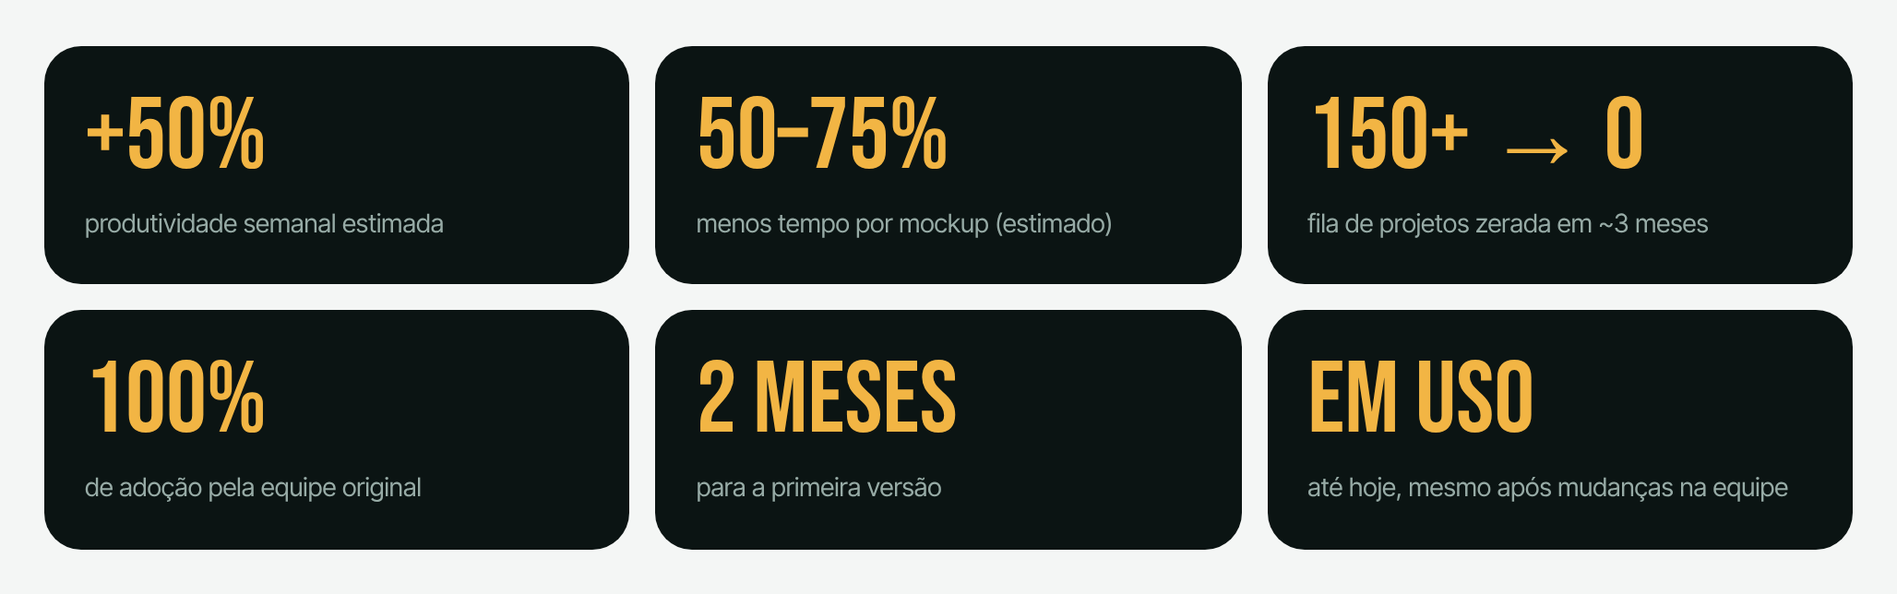
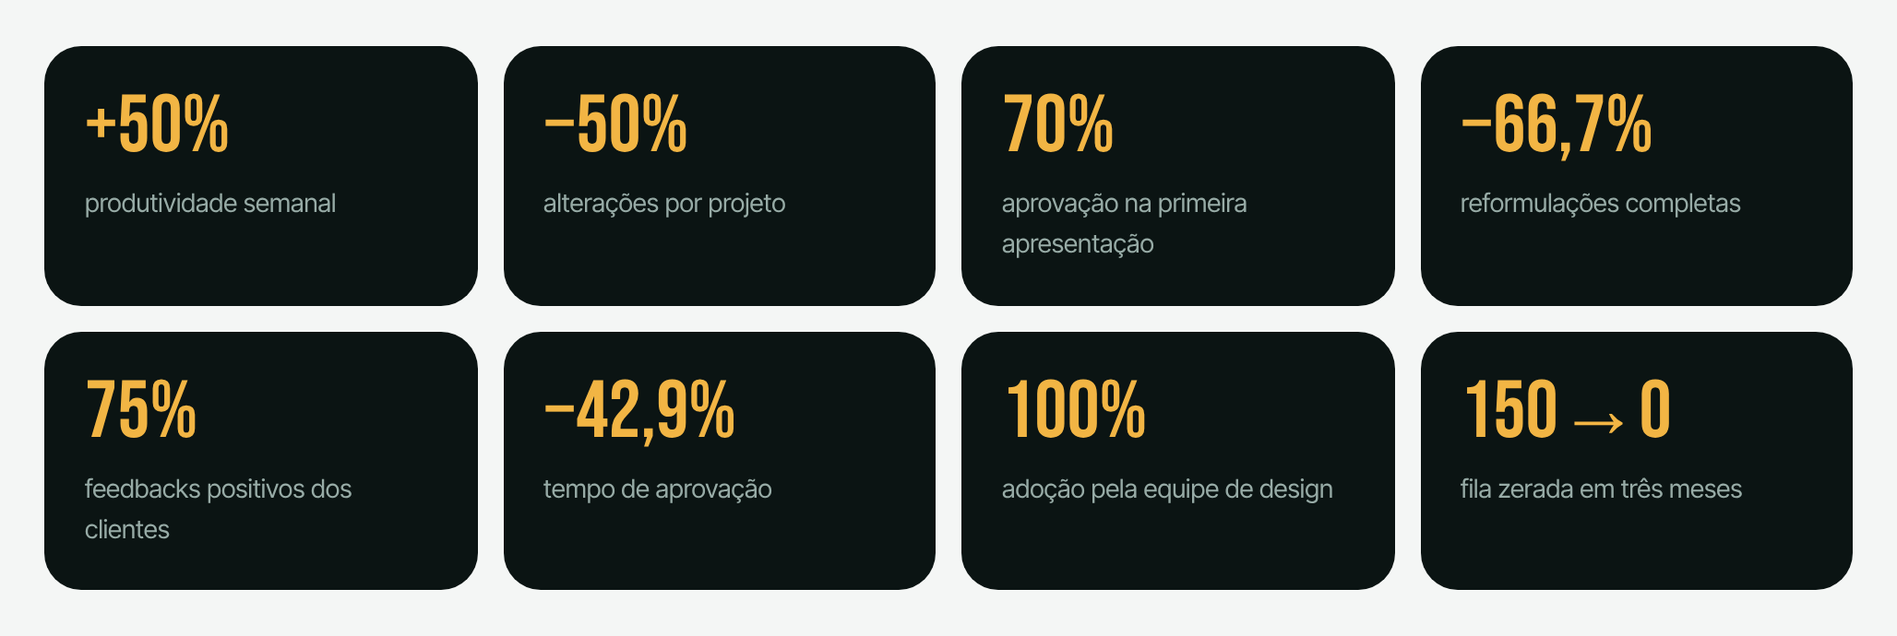
Add files via upload

diff --git a/medium/design-em-escala.html b/medium/design-em-escala.html
@@ -32,10 +32,10 @@ a{color:var(--accent)}
 <figure><img src="https://www.samilleleao.net/img/medium/01-capa.png" alt="Mesma estrutura, identidades diferentes."><figcaption>Mesma estrutura, identidades diferentes.</figcaption></figure>
 <h2>Visão geral</h2>
 <p>Como acelerar a produção de sites institucionais sem comprometer a identidade visual e as particularidades de cada cliente?</p>
-<p>Esse foi o desafio que recebi em um cenário empresarial marcado pela alta demanda de projetos, prazos reduzidos e uma fila de mais de 150 sites pendentes.</p>
+<p>Esse foi o desafio que recebi em um cenário empresarial marcado pela alta demanda de projetos, prazos reduzidos e uma fila de 150 sites pendentes.</p>
 <p>A partir da investigação do processo de trabalho, da identificação das dificuldades enfrentadas pelos profissionais e da análise de estruturas recorrentes nos projetos, desenvolvi uma biblioteca modular de layouts inspirada nos princípios de Design System.</p>
 <p>A solução permitiu que os designers reutilizassem estruturas, combinassem diferentes possibilidades de composição e direcionassem mais tempo para decisões criativas e estratégicas.</p>
-<p>Adotado por toda a equipe, o sistema contribuiu para a aceleração da produção, a eliminação da fila de pendências e a evolução visual dos projetos.</p>
+<p>Adotado por toda a equipe, o sistema contribuiu para um aumento de 50% na produtividade semanal, uma redução de 50% nas solicitações de alterações e uma evolução na taxa de aprovação inicial de 40% para 70%, além de zerar a fila de pendências em três meses.</p>
 <h3>Informações do projeto</h3>
 <ul>
 <li><strong><strong>Tipo de projeto</strong></strong> → Solução interna empresarial</li>
@@ -49,16 +49,18 @@ a{color:var(--accent)}
 <li><strong><strong>Status</strong></strong> → Implementado e em utilização</li>
 </ul>
 <h3>Principais resultados</h3>
-<figure><img src="https://www.samilleleao.net/img/medium/02-resultados.png" alt="Indicadores operacionais estimados a partir da experiência profissional."><figcaption>Indicadores operacionais estimados a partir da experiência profissional.</figcaption></figure>
+<figure><img src="https://www.samilleleao.net/img/medium/02-resultados.png" alt="Principais indicadores do sistema modular."><figcaption>Principais indicadores do sistema modular.</figcaption></figure>
 <ul>
-<li><strong>+50%</strong> de aumento estimado na produtividade semanal por designer.</li>
-<li><strong>50% a 75%</strong> de redução estimada no tempo de criação dos mockups.</li>
-<li><strong>100%</strong> de adoção pela equipe original de design.</li>
-<li><strong>150+ projetos pendentes</strong> eliminados da fila em três meses.</li>
-<li>Maior diversidade visual observada nos projetos posteriores.</li>
-<li>Continuidade da utilização da solução.</li>
+<li><strong>+50%</strong> de produtividade semanal por designer.</li>
+<li><strong>−50%</strong> de alterações por projeto.</li>
+<li><strong>70%</strong> de aprovação na primeira apresentação (antes, 40%).</li>
+<li><strong>−66,7%</strong> de reformulações completas.</li>
+<li><strong>75%</strong> de feedbacks positivos dos clientes (antes, 45%).</li>
+<li><strong>−42,9%</strong> no tempo de aprovação.</li>
+<li><strong>100%</strong> de adoção pela equipe de design.</li>
+<li><strong>150 → 0</strong> projetos pendentes em três meses.</li>
 </ul>
-<p><em>Os indicadores operacionais são estimativas baseadas na experiência profissional, uma vez que não estão disponíveis registros históricos detalhados de produção.</em></p>
+<p><em>Comparação entre três meses antes e três meses depois da implementação, com 60 projetos em cada período (120 no total).</em></p>
 <figure><img src="https://www.samilleleao.net/img/medium/02b-jornada.png" alt="A jornada do projeto, do desafio à evolução."><figcaption>A jornada do projeto, do desafio à evolução.</figcaption></figure>
 <hr>
 <h2>Contexto do negócio</h2>
@@ -290,39 +292,60 @@ a{color:var(--accent)}
 <p><em>A auditoria visual é qualitativa. Os projetos têm briefings diferentes e não constituem uma comparação controlada de usabilidade ou desempenho.</em></p>
 <hr>
 <h2>Resultados e impacto</h2>
-<figure><img src="https://www.samilleleao.net/img/medium/12-graficos.png" alt="Produtividade e tempo por mockup (estimativas)."><figcaption>Produtividade e tempo por mockup (estimativas).</figcaption></figure>
-<p>O tempo de criação de um mockup, estimado em cerca de dois dias, passou para meio dia a um dia, conforme a complexidade: uma redução estimada entre 50% e 75%. O volume semanal por designer passou de cerca de cinco para uma média de sete a oito mockups.</p>
+<p>A implementação do sistema modular promoveu melhorias que ultrapassaram a produtividade da equipe de design, alcançando também o processo de revisão, a aprovação e a percepção dos clientes.</p>
+<p>Para avaliar o impacto, foram considerados dois períodos equivalentes: três meses antes e três meses depois da implementação, com uma amostra de 60 projetos em cada período, totalizando 120 projetos.</p>
+<figure><img src="https://www.samilleleao.net/img/medium/12-indicadores.png" alt="Indicadores antes e depois do sistema modular."><figcaption>Indicadores antes e depois do sistema modular.</figcaption></figure>
 <ul>
-<li><strong>Entregas semanais por designer</strong> (antes: 5; depois: 7,5)</li>
-<li><strong>Capacidade semanal da equipe</strong> (antes: 20; depois: 30)</li>
-<li><strong>Capacidade mensal projetada</strong> (antes: 80; depois: 120)</li>
+<li><strong>Aprovação na primeira apresentação</strong> (antes: 40%; depois: 70%; resultado: +30 p.p.)</li>
+<li><strong>Média de alterações por projeto</strong> (antes: 4,2; depois: 2,1; resultado: −50%)</li>
+<li><strong>Reformulações completas</strong> (antes: 15%; depois: 5%; resultado: −66,7%)</li>
+<li><strong>Tempo médio de aprovação</strong> (antes: 7 dias; depois: 4 dias; resultado: −42,9%)</li>
+<li><strong>Aprovação sem grandes alterações</strong> (antes: 30%; depois: 65%; resultado: +35 p.p.)</li>
+<li><strong>Feedbacks positivos</strong> (antes: 45%; depois: 75%; resultado: +30 p.p.)</li>
+<li><strong>Feedbacks negativos</strong> (antes: 35%; depois: 15%; resultado: −20 p.p.)</li>
+<li><strong>Projetos pendentes</strong> (antes: 150; depois: 0; resultado: −100%)</li>
+<li><strong>Tempo de criação</strong> (antes: 2 dias; depois: 0,5–1 dia; resultado: −50% a −75%)</li>
 </ul>
-<p><em>As projeções consideram quatro designers e meses de quatro semanas e não representam registros efetivos de todas as entregas.</em></p>
-<figure><img src="https://www.samilleleao.net/img/medium/13-fila.png" alt="Da fila de 150+ projetos a zero, em cerca de três meses."><figcaption>Da fila de 150+ projetos a zero, em cerca de três meses.</figcaption></figure>
-<p>Em cerca de três meses, zeramos a fila de mais de 150 projetos, mesmo com novas demandas chegando. Não houve outras mudanças operacionais relevantes identificadas por mim no período. Embora não seja possível isolar estatisticamente a contribuição da biblioteca, a experiência operacional indica que ela contribuiu significativamente.</p>
-<p>Mesmo após mudanças na equipe, o sistema permaneceu relevante. Continuo usando a biblioteca como apoio à produção dos mockups.</p>
+<h3>Eficiência operacional e redução do retrabalho</h3>
+<p>A reutilização de estruturas reduziu em 50% a média de alterações por projeto, de 4,2 para 2,1 solicitações.</p>
+<p>As reformulações completas caíram 66,7%, indicando maior alinhamento das propostas visuais às expectativas dos clientes.</p>
+<p>O tempo de criação dos mockups passou de dois dias para cerca de meio dia a um dia, contribuindo para um aumento de 50% na produtividade semanal por designer.</p>
+<h3>Melhoria no processo de aprovação</h3>
+<figure><img src="https://www.samilleleao.net/img/medium/13-comparativo.png" alt="Comparativo de resultados, antes e depois."><figcaption>Comparativo de resultados, antes e depois.</figcaption></figure>
+<p>A aprovação na primeira apresentação passou de 40% para 70%, um crescimento de 30 pontos percentuais.</p>
+<p>Os mockups aprovados sem grandes alterações subiram de 30% para 65%, e o tempo médio entre apresentação e aprovação caiu de sete para quatro dias, uma redução de 42,9%.</p>
+<h3>Percepção dos clientes</h3>
+<p>Os feedbacks positivos sobre os projetos subiram de 45% para 75%, e os feedbacks negativos sobre os layouts caíram de 35% para 15%.</p>
+<p>Esses indicadores apontam para uma evolução na percepção dos clientes, especialmente em organização das informações, apresentação visual e personalização. Como não houve uma pesquisa específica de satisfação (CSAT), os feedbacks e as taxas de aprovação funcionam como indicadores indiretos da experiência dos clientes.</p>
+<h3>Impacto no negócio</h3>
+<figure><img src="https://www.samilleleao.net/img/medium/14-fila.png" alt="Da fila de 150 projetos a zero, em cerca de três meses."><figcaption>Da fila de 150 projetos a zero, em cerca de três meses.</figcaption></figure>
+<p>Com mais capacidade produtiva e menos esforço operacional, a equipe zerou uma fila de 150 projetos em cerca de três meses, mesmo com novas demandas chegando. Os quatro designers adotaram a biblioteca e passaram a enriquecê-la de forma colaborativa.</p>
+<p>Os resultados apontam para uma contribuição relevante do sistema modular na eficiência operacional, na redução do retrabalho e na experiência de aprovação dos projetos.</p>
 <h3>Avaliação das hipóteses</h3>
 <ul>
-<li><strong>A reutilização reduziria o tempo de criação</strong> (evidência: De dois dias para meio dia a um dia; avaliação: Sustentada por relato)</li>
-<li><strong>A modularidade aumentaria a produtividade</strong> (evidência: Crescimento semanal estimado de 50%; avaliação: Sustentada por relato)</li>
-<li><strong>A personalização seria preservada</strong> (evidência: Comparação de 12 mockups; avaliação: Sustentada qualitativamente)</li>
-<li><strong>A equipe adotaria a solução</strong> (evidência: Uso pelos quatro designers; avaliação: Confirmada por relato)</li>
-<li><strong>A biblioteca evoluiria coletivamente</strong> (evidência: Liberdade de contribuição; avaliação: Confirmada por relato)</li>
-<li><strong>A solução permaneceria relevante</strong> (evidência: Uso contínuo; avaliação: Confirmada por relato)</li>
-<li><strong>O retrabalho seria reduzido</strong> (evidência: Sem indicadores específicos; avaliação: Não mensurada)</li>
-<li><strong>A satisfação dos clientes aumentaria</strong> (evidência: Sem pesquisa de satisfação; avaliação: Não mensurada)</li>
+<li><strong>Reutilizar reduz o tempo</strong> (evidência: De 2 dias para 0,5–1 dia; avaliação: Sustentada por relato)</li>
+<li><strong>Modularidade aumenta a produtividade</strong> (evidência: +50% semanal; avaliação: Sustentada por relato)</li>
+<li><strong>A personalização é preservada</strong> (evidência: Comparação de 12 mockups; avaliação: Sustentada qualitativamente)</li>
+<li><strong>A equipe adota a solução</strong> (evidência: 4 de 4 designers; avaliação: Confirmada por relato)</li>
+<li><strong>Evolui coletivamente e continua relevante</strong> (evidência: Contribuições e uso contínuo; avaliação: Confirmada por relato)</li>
+<li><strong>Reduz o retrabalho</strong> (evidência: −50% nas alterações por projeto; avaliação: Sustentada por indicadores)</li>
+<li><strong>Reduz reformulações completas</strong> (evidência: −66,7% nas solicitações; avaliação: Sustentada por indicadores)</li>
+<li><strong>Facilita a aprovação</strong> (evidência: De 40% para 70% na primeira apresentação; avaliação: Sustentada por indicadores)</li>
+<li><strong>Melhora a percepção dos clientes</strong> (evidência: De 45% para 75% de feedbacks positivos; avaliação: Sustentada por indicadores indiretos)</li>
 </ul>
 <hr>
 <h2>Valor gerado</h2>
-<figure><img src="https://www.samilleleao.net/img/medium/14-valor.png" alt="Valor para a empresa, para os designers e para os clientes."><figcaption>Valor para a empresa, para os designers e para os clientes.</figcaption></figure>
-<p><em>Os benefícios para os clientes são consequências esperadas da melhoria operacional, não resultados medidos por pesquisas de satisfação.</em></p>
+<figure><img src="https://www.samilleleao.net/img/medium/15-valor.png" alt="Valor para a empresa, para os designers e para os clientes."><figcaption>Valor para a empresa, para os designers e para os clientes.</figcaption></figure>
+<p><strong>Para a empresa:</strong> mais capacidade produtiva, fila de pendências zerada, menos retrabalho, aprovações mais rápidas e melhor aproveitamento da equipe.</p>
+<p><strong>Para os designers:</strong> 50% menos alterações por projeto, menos trabalho repetitivo, repertório compartilhado, autonomia criativa e mais tempo para direção de arte.</p>
+<p><strong>Para os clientes:</strong> propostas mais rápidas, mais personalização visual, menos rodadas de ajustes, aprovação mais ágil e melhor percepção dos layouts.</p>
 <hr>
 <h2>Limitações da avaliação</h2>
 <ul>
-<li>Não havia ferramenta que registrasse tempos de criação e entregas individuais, então os indicadores são estimativas.</li>
+<li>Não houve uma pesquisa específica de satisfação (CSAT). Feedbacks e taxas de aprovação são indicadores indiretos.</li>
 <li>Não foi possível fazer uma nova avaliação com os outros três designers, que não integram mais a equipe.</li>
-<li>A comparação dos mockups não comprova ganhos de usabilidade, acessibilidade ou conversão.</li>
-<li>Os dados não permitem estabelecer uma relação causal isolada entre o sistema e a eliminação da fila.</li>
+<li>A comparação visual dos mockups não comprova ganhos de usabilidade, acessibilidade ou conversão.</li>
+<li>Os dados não permitem isolar estatisticamente a contribuição do sistema em relação a outros fatores do período.</li>
 </ul>
 <hr>
 <h2>Desafios e aprendizados</h2>
@@ -343,14 +366,9 @@ a{color:var(--accent)}
 <li><strong>Inteligência artificial:</strong> automatizar a análise de briefings, a organização de referências e a geração de possibilidades estruturais, sem substituir o julgamento e a criatividade do designer.</li>
 </ul>
 <hr>
-<h2>A evolução para o Modu Studio</h2>
-<p>Os aprendizados do sistema modular contribuíram para um novo projeto autoral: o <strong>Modu Studio</strong>.</p>
-<p>Enquanto a biblioteca original organizava estruturas manualmente no Figma, o Modu Studio explora a inteligência artificial como apoio à criação de layouts institucionais: centralizar informações dos clientes, organizar referências, auxiliar na interpretação dos briefings, gerar alternativas de wireframe e apoiar a coerência entre as páginas, preservando a autonomia criativa dos designers.</p>
-<p>O propósito permanece o mesmo: reduzir o esforço com atividades repetitivas para que os designers se concentrem nas decisões de maior valor.</p>
-<hr>
 <h2>Conclusão</h2>
 <p>O sistema modular mostrou que o design pode gerar valor não apenas pelas interfaces entregues, mas também pela transformação dos processos usados para construí-las.</p>
-<p>O que começou como o pedido de um mockup base virou uma biblioteca modular e colaborativa, adotada por toda a equipe e incorporada à rotina de produção. A solução contribuiu para um aumento estimado de 50% na produtividade semanal, uma redução estimada no tempo de criação e a eliminação de uma fila de mais de 150 projetos em três meses.</p>
+<p>O que começou como o pedido de um mockup base virou uma biblioteca modular e colaborativa, adotada por toda a equipe e incorporada à rotina de produção. A solução contribuiu para um aumento de 50% na produtividade semanal, uma redução de 50% nas alterações por projeto, uma evolução na aprovação inicial de 40% para 70% e a eliminação de uma fila de 150 projetos em três meses.</p>
 <p>Essa experiência ampliou minha compreensão sobre o papel do UX/UI Designer na identificação de problemas, na construção de soluções escaláveis e na geração de valor para o negócio.</p>
 <p><strong>Padronizar a estrutura não significa padronizar a criatividade. Significa criar espaço para que ela aconteça.</strong></p>
 <hr>

diff --git a/cases/design-em-escala.html b/cases/design-em-escala.html
@@ -4,7 +4,7 @@
 <meta charset="utf-8">
 <meta name="viewport" content="width=device-width, initial-scale=1, viewport-fit=cover">
 <title>Design em escala — Samille Leão</title>
-<meta name="description" content="Como um sistema modular no Figma transformou a produção de sites institucionais: +50% de produtividade estimada e uma fila de 150+ projetos zerada em três meses.">
+<meta name="description" content="Biblioteca modular no Figma que aumentou a produtividade em 50%, reduziu as alterações por projeto em 50% e elevou a aprovação na primeira apresentação de 40% para 70%.">
 <link rel="preconnect" href="https://fonts.googleapis.com">
 <link rel="preconnect" href="https://fonts.gstatic.com" crossorigin>
 <link rel="stylesheet" href="https://fonts.googleapis.com/css2?family=Bebas+Neue&family=Inter+Tight:wght@400;500;600;700&family=JetBrains+Mono:wght@400;500&display=swap">
@@ -73,15 +73,17 @@
         </header>
         <div class="callout reveal"><small>Pergunta central</small>Como acelerar a produção de sites institucionais sem comprometer a identidade visual e as particularidades de cada cliente?</div>
         <p class="intro reveal">No <strong>Grupo Ideal Trends</strong>, uma equipe de <strong>4 designers</strong> enfrentava prazos curtos e uma fila com <strong>mais de 150 sites pendentes</strong>. Investiguei o processo, ouvi quem participava dele e identifiquei estruturas que se repetiam. O resultado foi uma <strong>biblioteca modular de layouts no Figma</strong>, inspirada em Design Systems.</p>
-        <div class="kpis" id="g-resultados">
-          <div class="kpi reveal"><strong>+50%</strong><span>produtividade semanal estimada</span></div>
-          <div class="kpi reveal"><strong>50–75%</strong><span>menos tempo por mockup (estimado)</span></div>
-          <div class="kpi reveal"><strong>150+ → 0</strong><span>fila de projetos zerada em ~3 meses</span></div>
-          <div class="kpi reveal"><strong>100%</strong><span>de adoção pela equipe original</span></div>
-          <div class="kpi reveal"><strong>2 meses</strong><span>para a primeira versão</span></div>
-          <div class="kpi reveal"><strong>Em uso</strong><span>até hoje, mesmo após mudanças na equipe</span></div>
+        <div class="kpis k8" id="g-resultados">
+          <div class="kpi reveal"><strong>+50%</strong><span>produtividade semanal</span></div>
+          <div class="kpi reveal"><strong>−50%</strong><span>alterações por projeto</span></div>
+          <div class="kpi reveal"><strong>70%</strong><span>aprovação na primeira apresentação</span></div>
+          <div class="kpi reveal"><strong>−66,7%</strong><span>reformulações completas</span></div>
+          <div class="kpi reveal"><strong>75%</strong><span>feedbacks positivos dos clientes</span></div>
+          <div class="kpi reveal"><strong>−42,9%</strong><span>tempo de aprovação</span></div>
+          <div class="kpi reveal"><strong>100%</strong><span>adoção pela equipe de design</span></div>
+          <div class="kpi reveal"><strong>150→0</strong><span>fila zerada em três meses</span></div>
         </div>
-        <p class="note reveal">Indicadores operacionais estimados a partir da experiência profissional. Não há registros históricos detalhados da produção.</p>
+        <p class="note reveal">Comparação entre três meses antes e três meses depois da implementação, com 60 projetos em cada período (120 no total).</p>
         <p class="label reveal">A jornada do projeto</p>
         <ol class="devj reveal" id="g-jornada">
           <li><b>Contexto e desafio</b><span>Alta demanda e pedido da gestora</span></li>
@@ -278,55 +280,66 @@
             </tbody>
           </table>
         </div>
-        <p class="label reveal">Resultados operacionais</p>
-        <div class="charts2" id="g-charts">
-          <div class="chart reveal">
-            <p class="label">Mockups por semana, por designer</p>
-            <div class="vbars" style="--n:2"><div class="old"><strong>5</strong><i style="--px:120px"></i></div><div><strong>7,5</strong><i style="--px:180px"></i></div></div>
-            <div class="vlabels" style="--n:2"><span>Antes</span><span>Depois (média de 7 a 8)</span></div>
-          </div>
-          <div class="chart reveal">
-            <p class="label">Tempo de criação por mockup</p>
-            <div class="vbars" style="--n:2"><div class="old"><strong>2 dias</strong><i style="--px:180px"></i></div><div class="range"><strong>0,5–1 dia</strong><i style="--px:90px"></i></div></div>
-            <div class="vlabels" style="--n:2"><span>Antes</span><span>Depois</span></div>
-          </div>
-        </div>
-        <div class="queue reveal" id="g-fila">
-          <div><small>Início</small><strong>150+</strong><small>projetos pendentes</small></div>
-          <div class="track"><span>~3 meses, com novas demandas chegando</span></div>
-          <div class="end"><small>Depois</small><strong>0</strong><small>projetos pendentes</small></div>
-        </div>
-        <div class="tbl reveal">
+        <p class="label reveal">Resultados e impacto</p>
+        <div class="prose reveal"><p>Os ganhos foram além da produtividade da equipe: chegaram ao processo de revisão, à aprovação e à percepção dos clientes. Para medir, comparei <strong>três meses antes e três meses depois</strong> da implementação, com <strong>60 projetos em cada período</strong>, 120 no total.</p></div>
+        <div class="tbl reveal" id="g-indicadores">
           <table>
-            <thead><tr><th>Capacidade estimada</th><th>Antes</th><th>Depois</th></tr></thead>
+            <thead><tr><th>Indicador</th><th>Antes</th><th>Depois</th><th>Resultado</th></tr></thead>
             <tbody>
-              <tr><td>Entregas semanais por designer</td><td>5</td><td>7,5</td></tr>
-              <tr><td>Capacidade semanal da equipe</td><td>20</td><td>30</td></tr>
-              <tr><td>Capacidade mensal projetada</td><td>80</td><td>120</td></tr>
+              <tr><td>Aprovação na primeira apresentação</td><td>40%</td><td>70%</td><td><span class="verdict ok">+30 p.p.</span></td></tr>
+              <tr><td>Média de alterações por projeto</td><td>4,2</td><td>2,1</td><td><span class="verdict ok">−50%</span></td></tr>
+              <tr><td>Reformulações completas</td><td>15%</td><td>5%</td><td><span class="verdict ok">−66,7%</span></td></tr>
+              <tr><td>Tempo médio de aprovação</td><td>7 dias</td><td>4 dias</td><td><span class="verdict ok">−42,9%</span></td></tr>
+              <tr><td>Aprovação sem grandes alterações</td><td>30%</td><td>65%</td><td><span class="verdict ok">+35 p.p.</span></td></tr>
+              <tr><td>Feedbacks positivos</td><td>45%</td><td>75%</td><td><span class="verdict ok">+30 p.p.</span></td></tr>
+              <tr><td>Feedbacks negativos</td><td>35%</td><td>15%</td><td><span class="verdict ok">−20 p.p.</span></td></tr>
+              <tr><td>Projetos pendentes</td><td>150</td><td>0</td><td><span class="verdict ok">−100%</span></td></tr>
+              <tr><td>Tempo de criação</td><td>2 dias</td><td>0,5–1 dia</td><td><span class="verdict ok">−50% a −75%</span></td></tr>
             </tbody>
           </table>
         </div>
-        <p class="note reveal">Estimativas da experiência operacional, com 4 designers e meses de 4 semanas. Não houve outras mudanças operacionais relevantes no período, mas não é possível isolar estatisticamente a contribuição da biblioteca.</p>
+        <div class="cmp reveal" id="g-comparativo" role="img" aria-label="Comparativo antes e depois: aprovação na primeira apresentação de 40% para 70%; aprovação sem grandes alterações de 30% para 65%; feedbacks positivos de 45% para 75%; feedbacks negativos de 35% para 15%; reformulações completas de 15% para 5%.">
+          <div class="cmp-head"><p class="label">Comparativo de resultados</p><span class="cmp-leg"><i class="b"></i>Antes<i class="a"></i>Depois</span></div>
+          <div class="cmp-row"><span>Aprovação na primeira apresentação</span><div class="pair"><i class="b" style="--w:40%"><b>40%</b></i><i class="a" style="--w:70%"><b>70%</b></i></div></div>
+          <div class="cmp-row"><span>Aprovação sem grandes alterações</span><div class="pair"><i class="b" style="--w:30%"><b>30%</b></i><i class="a" style="--w:65%"><b>65%</b></i></div></div>
+          <div class="cmp-row"><span>Feedbacks positivos</span><div class="pair"><i class="b" style="--w:45%"><b>45%</b></i><i class="a" style="--w:75%"><b>75%</b></i></div></div>
+          <div class="cmp-row down"><span>Feedbacks negativos</span><div class="pair"><i class="b" style="--w:35%"><b>35%</b></i><i class="a" style="--w:15%"><b>15%</b></i></div></div>
+          <div class="cmp-row down"><span>Reformulações completas</span><div class="pair"><i class="b" style="--w:15%"><b>15%</b></i><i class="a" style="--w:5%"><b>5%</b></i></div></div>
+        </div>
+        <div class="grid-2">
+          <div class="box reveal"><span class="ic">Eficiência e retrabalho</span><h3>Metade das alterações</h3><p>A média de alterações por projeto caiu de 4,2 para 2,1. Reformulações completas caíram 66,7%. Cada mockup passou de 2 dias para 0,5–1 dia, com +50% de produtividade semanal por designer.</p></div>
+          <div class="box reveal"><span class="ic">Aprovação</span><h3>Aprovações mais rápidas</h3><p>Aprovação na primeira apresentação de 40% para 70%. Aprovação sem grandes alterações de 30% para 65%. Tempo entre apresentação e aprovação de 7 para 4 dias.</p></div>
+          <div class="box reveal"><span class="ic">Percepção dos clientes</span><h3>Mais feedbacks positivos</h3><p>Positivos de 45% para 75%; negativos sobre os layouts de 35% para 15%, principalmente em organização da informação, apresentação visual e personalização.</p></div>
+          <div class="box reveal"><span class="ic">Negócio</span><h3>Fila zerada</h3><p>150 projetos pendentes zerados em cerca de três meses, com novas demandas chegando. Os quatro designers adotaram e enriqueceram a biblioteca.</p></div>
+        </div>
+        <div class="queue reveal" id="g-fila">
+          <div><small>Início</small><strong>150</strong><small>projetos pendentes</small></div>
+          <div class="track"><span>~3 meses, com novas demandas chegando</span></div>
+          <div class="end"><small>Depois</small><strong>0</strong><small>projetos pendentes</small></div>
+        </div>
+        <p class="note reveal">Não houve pesquisa específica de satisfação (CSAT). Feedbacks e taxas de aprovação são indicadores indiretos da experiência dos clientes.</p>
         <p class="label reveal">Avaliação das hipóteses</p>
         <div class="tbl reveal">
           <table>
             <thead><tr><th>Hipótese</th><th>Evidência</th><th>Avaliação</th></tr></thead>
             <tbody>
-              <tr><td>Reutilizar reduz o tempo</td><td>De ~2 dias para 0,5–1 dia</td><td><span class="verdict rel">Sustentada por relato</span></td></tr>
-              <tr><td>Modularidade aumenta a produtividade</td><td>+50% semanal estimado</td><td><span class="verdict rel">Sustentada por relato</span></td></tr>
+              <tr><td>Reutilizar reduz o tempo</td><td>De 2 dias para 0,5–1 dia</td><td><span class="verdict rel">Sustentada por relato</span></td></tr>
+              <tr><td>Modularidade aumenta a produtividade</td><td>+50% semanal</td><td><span class="verdict rel">Sustentada por relato</span></td></tr>
               <tr><td>A personalização é preservada</td><td>Comparação de 12 mockups</td><td><span class="verdict ok">Sustentada qualitativamente</span></td></tr>
-              <tr><td>A equipe adota</td><td>4 de 4 designers</td><td><span class="verdict ok">Confirmada por relato</span></td></tr>
+              <tr><td>A equipe adota a solução</td><td>4 de 4 designers</td><td><span class="verdict ok">Confirmada por relato</span></td></tr>
               <tr><td>Evolui coletivamente e continua relevante</td><td>Contribuições e uso contínuo</td><td><span class="verdict ok">Confirmada por relato</span></td></tr>
-              <tr><td>Reduz retrabalho e aumenta a satisfação dos clientes</td><td>Sem indicadores</td><td><span class="verdict na">Não mensurada</span></td></tr>
+              <tr><td>Reduz o retrabalho</td><td>−50% nas alterações por projeto</td><td><span class="verdict ok">Sustentada por indicadores</span></td></tr>
+              <tr><td>Reduz reformulações completas</td><td>−66,7% nas solicitações</td><td><span class="verdict ok">Sustentada por indicadores</span></td></tr>
+              <tr><td>Facilita a aprovação</td><td>De 40% para 70% na primeira apresentação</td><td><span class="verdict ok">Sustentada por indicadores</span></td></tr>
+              <tr><td>Melhora a percepção dos clientes</td><td>De 45% para 75% de feedbacks positivos</td><td><span class="verdict rel">Sustentada por indicadores indiretos</span></td></tr>
             </tbody>
           </table>
         </div>
         <div class="value reveal" id="g-valor">
-          <div><h3>Para a empresa</h3><ul><li>Mais capacidade com a mesma equipe</li><li>Fila de pendências zerada</li><li>Conhecimento centralizado</li></ul></div>
-          <div><h3>Para os designers</h3><ul><li>Menos estrutura repetitiva</li><li>Repertório compartilhado</li><li>Autonomia e espaço para contribuir</li></ul></div>
-          <div><h3>Para os clientes</h3><ul><li>Potencial de layouts mais rápidos</li><li>Mais exploração da identidade</li><li>Interfaces fiéis a cada negócio</li></ul></div>
+          <div><h3>Para a empresa</h3><ul><li>Mais capacidade produtiva</li><li>Fila de pendências zerada</li><li>Menos retrabalho</li><li>Aprovações mais rápidas</li><li>Melhor aproveitamento da equipe</li></ul></div>
+          <div><h3>Para os designers</h3><ul><li>50% menos alterações por projeto</li><li>Menos trabalho repetitivo</li><li>Repertório compartilhado</li><li>Autonomia criativa</li><li>Mais tempo para direção de arte</li></ul></div>
+          <div><h3>Para os clientes</h3><ul><li>Propostas mais rápidas</li><li>Mais personalização visual</li><li>Menos rodadas de ajustes</li><li>Aprovação mais ágil</li><li>Melhor percepção dos layouts</li></ul></div>
         </div>
-        <p class="note reveal">Os benefícios para os clientes são consequências esperadas, não medidas por pesquisa de satisfação.</p>
       </section>
 
       <!-- 8 -->

diff --git a/index.html b/index.html
@@ -60,7 +60,7 @@
               <span class="tc-k">Case study · DesignOps</span>
               <span class="tc-t">Design<br>em escala</span>
               <span class="tc-sites"><img src="img/escala-mondocao.jpg" alt=""><img src="img/escala-dalp.jpg" alt=""><img src="img/escala-constantino.jpg" alt=""></span>
-              <span class="tc-d"><b>150+ → 0</b> projetos na fila · <b>+50%</b> produtividade</span>
+              <span class="tc-d"><b>150 → 0</b> na fila · <b>70%</b> aprovados de primeira</span>
             </span><span class="cap">Design em escala <span>→</span></span></a>
       </div>
     </div>
@@ -86,7 +86,7 @@
       <div class="stack">
         <a class="card" href="cases/design-em-escala.html" data-cursor="Ver case">
           <div class="media ms" role="img" aria-label="Três sites montados com a mesma estrutura modular e identidades visuais diferentes">
-            <span class="ms-tag">150+ projetos → fila zerada</span>
+            <span class="ms-tag">150 projetos → fila zerada</span>
             <span class="ms-site ms-real ms-v1"><img src="img/escala-mondocao.jpg" alt="Site de creche e hotel para cães" loading="lazy"></span>
         <span class="ms-site ms-real ms-v2"><img src="img/escala-dalp.jpg" alt="Site de empresa de serviços terceirizados" loading="lazy"></span>
         <span class="ms-site ms-real ms-v3"><img src="img/escala-constantino.jpg" alt="Site de clínica de nutrologia" loading="lazy"></span>
@@ -96,8 +96,8 @@
             <span class="idx">01 / 04</span>
             <div class="meta"><span class="tag live">Em uso na empresa</span><span class="tag">DesignOps</span></div>
             <h3>Design em escala</h3>
-            <p class="sum"><b>Desafio:</b> acelerar a produção de sites institucionais sem transformar marcas diferentes em versões do mesmo template. Uma biblioteca modular no Figma, adotada por toda a equipe.</p>
-            <div class="chips"><span>UX/UI Design</span><span>DesignOps</span><span>Design Modular</span><span>+50% produtividade</span></div>
+            <p class="sum"><b>Desafio:</b> zerar uma fila de 150 projetos sem transformar marcas diferentes em versões do mesmo template. Uma biblioteca modular no Figma: <b>+50% de produtividade</b>, <b>−50% de alterações</b> e aprovação na primeira apresentação de <b>40% para 70%</b>.</p>
+            <div class="chips"><span>UX/UI Design</span><span>DesignOps</span><span>Design Modular</span><span>Redução de retrabalho</span></div>
             <span class="go"><i>→</i>Ver case completo</span>
           </div>
         </a>

diff --git a/css/site.css b/css/site.css
@@ -1062,3 +1062,22 @@ main,footer{position:relative;z-index:1}
 .fan a:hover .tc-sites img{transform:none}
 .fan a:hover .tc-sites img:nth-child(1){transform:rotate(-11deg) translate(-4%,3%)}
 .fan a:hover .tc-sites img:nth-child(3){transform:rotate(11deg) translate(4%,3%)}
+
+/* Design em escala: indicadores finais */
+@media (min-width:900px){.kpis.k8{grid-template-columns:repeat(4,minmax(0,1fr))}}
+.kpis.k8 .kpi strong{font-size:clamp(36px,4vw,54px)}
+.cmp{background:var(--surface);border:1px solid var(--line);border-radius:20px;padding:26px;display:grid;gap:18px}
+.cmp-head{display:flex;flex-wrap:wrap;justify-content:space-between;gap:10px;align-items:center}
+.cmp-leg{display:flex;align-items:center;gap:8px;font-size:13px;color:var(--muted)}
+.cmp-leg i{width:12px;height:12px;border-radius:3px;display:inline-block}
+.cmp-leg i.b{background:var(--line)}.cmp-leg i.a{background:var(--accent);margin-left:8px}
+.cmp-row{display:grid;grid-template-columns:1fr;gap:8px}
+@media (min-width:760px){.cmp-row{grid-template-columns:240px 1fr;align-items:center}}
+.cmp-row > span{font-size:14.5px;font-weight:600}
+.pair{display:grid;gap:5px}
+.pair i{display:flex;align-items:center;justify-content:flex-end;height:22px;width:var(--w);min-width:44px;border-radius:6px;padding-right:8px;transform-origin:left}
+.pair i b{font:500 12px var(--font-mono);font-variant-numeric:tabular-nums}
+.pair i.b{background:var(--line);color:var(--muted)}
+.pair i.a{background:var(--accent);color:var(--on-accent)}
+.cmp-row.down .pair i.a{background:var(--hi);color:var(--hi-ink)}
+@supports (animation-timeline: view()){.pair i{animation:gx linear both;animation-timeline:view();animation-range:entry 10% cover 35%}}
